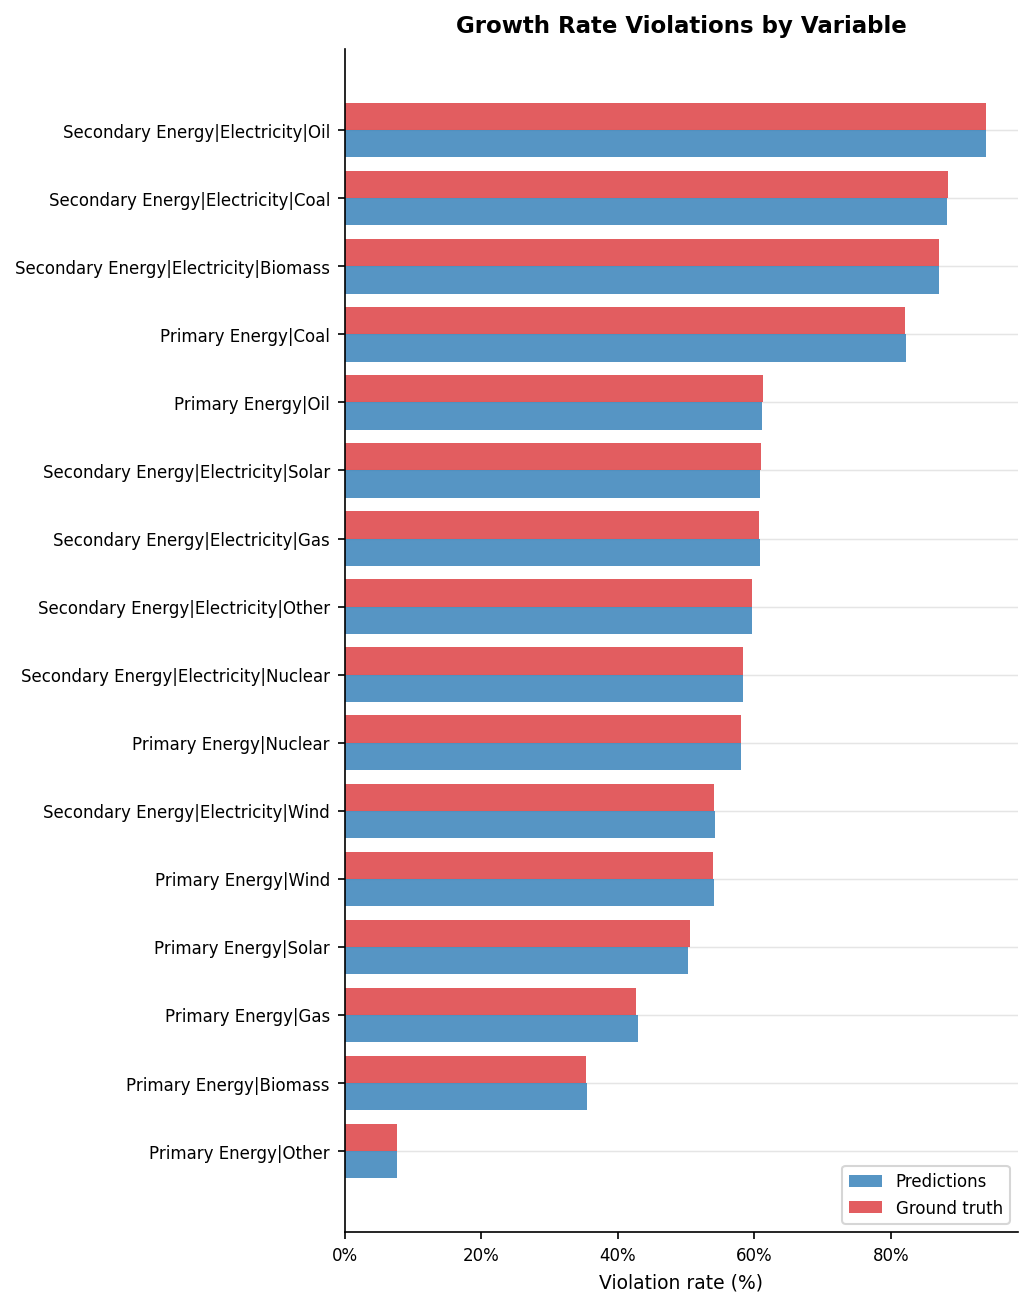
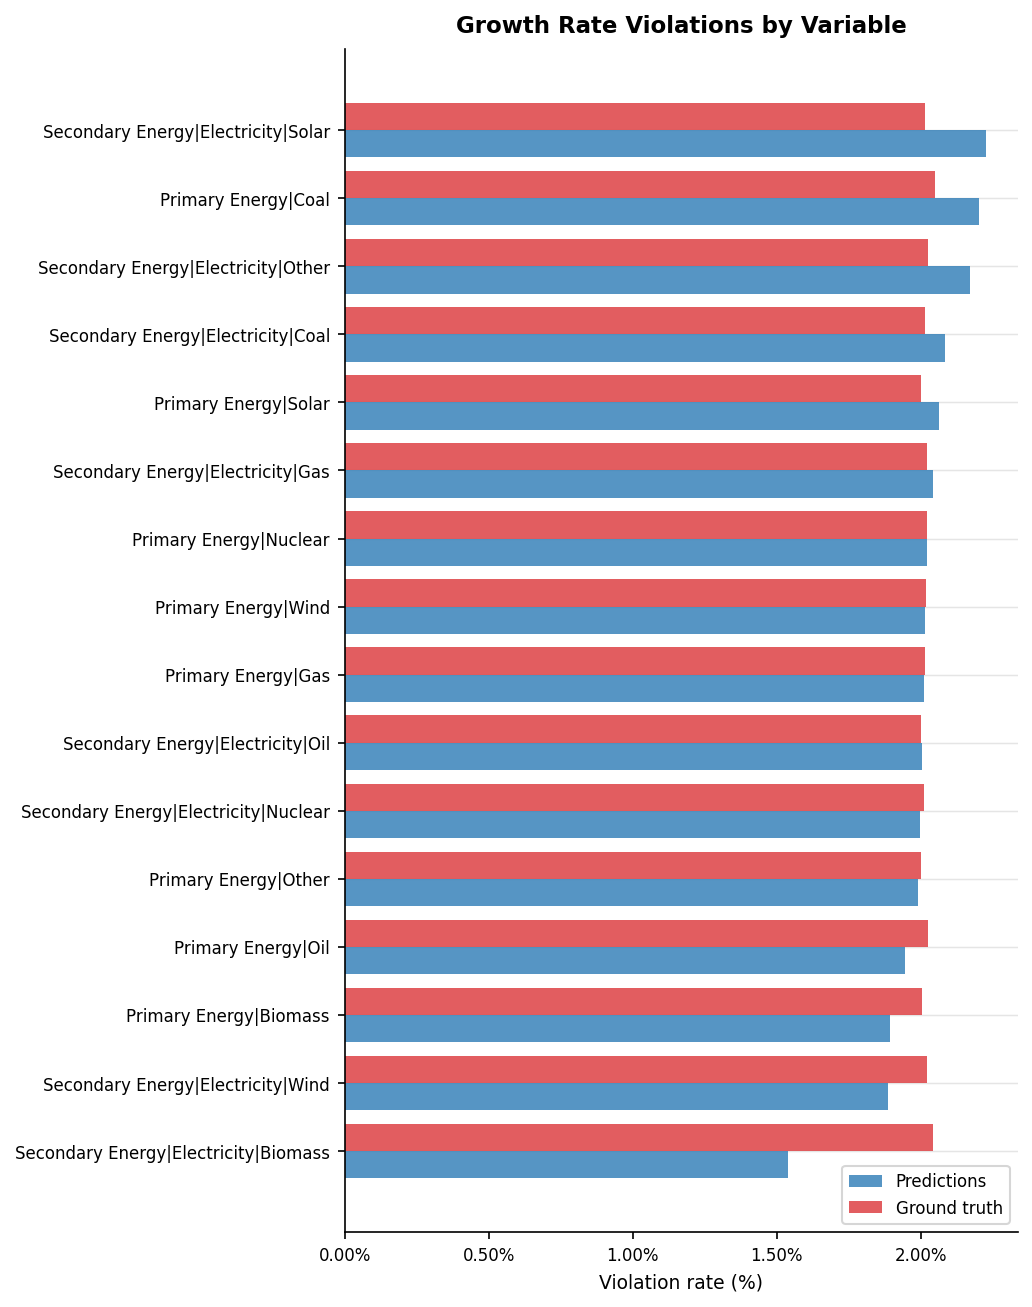
fixing gcam report

diff --git a/reports/gcamnet_01_iamc/report.md b/reports/gcamnet_01_iamc/report.md
@@ -1,7 +1,7 @@
 # Validation Report: gcamnet_01_iamc
 
 **Run ID:** `gcamnet_01_iamc`
-**Generated:** 2026-06-18 16:08
+**Generated:** 2026-06-19 09:54
 **Results:** `results/gcamnet_01_iamc/`
 
 ---
@@ -12,7 +12,7 @@
 
 | Metric | Predictions | Ground Truth |
 | --- | --- | --- |
-| Pass rate (timesteps) | 40.3% | 40.3% |
+| Pass rate (timesteps) | 98.0% | 98.0% |
 
 **3. Regional Consistency**
 
@@ -20,30 +20,9 @@ _No complete regional groupings in this dataset._
 
 **4. Physical Bounds Check**
 
-| Metric | Predictions | Ground Truth |
-| --- | --- | --- |
-| Pass rate (timesteps) | 99.7% | ⚠ run validate.py with --ground_truth |
-
-**5. Hard Historical Constraints** _(PASS = within IP range, WARN = within outer tolerance)_
-
-| Sub-check | Pass (%) | Warn (%) | Fail (%) | GT Pass (%) | GT Warn (%) | GT Fail (%) |
-| --- | --- | --- | --- | --- | --- | --- |
-| nuclear_energy_2020 | 0.0% | 0.1% | 99.9% | 0.0% | 0.1% | 99.9% |
-| solar_wind_2020 | 1.7% | 3.8% | 94.5% | 1.7% | 3.6% | 94.7% |
-
-**6. Soft Future Constraints**
-
-| Sub-check | Pass (%) | Fail (%) | GT Pass (%) | GT Fail (%) |
-| --- | --- | --- | --- | --- |
-| nuclear_electricity_2030 | 100.0% | 0.0% | 100.0% | 0.0% |
-
-**7. SCI Vetting Checks**
-
-| Sub-check | Pass (%) | Warn (%) | Fail (%) | GT Pass (%) | GT Warn (%) | GT Fail (%) |
-| --- | --- | --- | --- | --- | --- | --- |
-| hist_primary_coal | 0.0% | 0.0% | 100.0% | 0.0% | 0.0% | 100.0% |
-| hist_primary_gas | 0.0% | 0.0% | 100.0% | 0.0% | 0.0% | 100.0% |
-| hist_primary_oil | 0.0% | 0.0% | 100.0% | 0.0% | 0.0% | 100.0% |
+| Metric | Predictions |
+| --- | --- |
+| Pass rate (timesteps) | 99.7% |
 
 **8. Inter-variable Correlations**
 
@@ -83,11 +62,11 @@ _Sum check results not found. Run `validate.py` first._
 _For each predicted trajectory, checks that period-on-period growth rates
 fall within empirically-derived bounds from the ground truth data._
 
-**Total timesteps evaluated:** 307,200  
-**Violations:** 183,329 (59.68%)  
+**Total timesteps evaluated:** 126,411  
+**Violations:** 2,540 (2.01%)  
 
-**Ground truth — violation rate:** 59.65%  
-_(+0.02pp difference: predictions vs ground truth)_
+**Ground truth — violation rate:** 2.01%  
+_(-0.01pp difference: predictions vs ground truth)_
 
 ### Violation Rate by Variable
 
@@ -190,16 +169,7 @@ _Checks World-level predictions at 2020 against AR6 vetting reference values
 tolerance, FAIL = outside outer tolerance. Belongs to the **historical and
 domain knowledge comparison** validation family._
 
-| Sub-check | N | Pass (%) | Warn (%) | Fail (%) | GT Pass (%) | GT Fail (%) |
-| --- | --- | --- | --- | --- | --- | --- |
-| nuclear_energy_2020 | 1280 | 0.0000 | 0.1000 | 99.9000 | 0.0000 | 100.0000 |
-| solar_wind_2020 | 1280 | 1.7000 | 3.8000 | 94.5000 | 1.8000 | 98.2000 |
-
-
-_Skipped sub-checks (required variables absent): co2_eip_2020: ['Emissions|CO2'], ch4_2020: ['Emissions|CH4'], co2_change_2010_2020: ['Emissions|CO2'], ccs_2020: ['Carbon Sequestration|CCS'], primary_energy_2020: ['Primary Energy']_
-
-
-<p style="color:red;font-weight:bold">⚠ POSSIBLE UNIT MISMATCH: median 0.06108 is ~160x lower than expected 9.77 EJ. Check units for Primary Energy|Nuclear</p>
+_Check skipped — no results generated. Reason: no 'World' region in dataset — these are World-level checks and cannot be meaningfully evaluated on regional data._
 
 
 ---
@@ -210,12 +180,7 @@ _Checks World-level predictions at 2030–2040 against domain-knowledge
 plausibility bounds from the AR6 vetting process (Table 11). Belongs to the
 **historical and domain knowledge comparison** validation family._
 
-| Sub-check | N | Pass (%) | Fail (%) | GT Pass (%) | GT Fail (%) |
-| --- | --- | --- | --- | --- | --- |
-| nuclear_electricity_2030 | 1280 | 100.0000 | 0.0000 | 100.0000 | 0.0000 |
-
-
-_Skipped sub-checks (required variables absent): co2_not_negative_2030: ['Emissions|CO2'], ccs_2030: ['Carbon Sequestration|CCS'], ch4_2040: ['Emissions|CH4']_
+_Check skipped — no results generated. Reason: no 'World' region in dataset — these are World-level checks and cannot be meaningfully evaluated on regional data._
 
 
 ---
@@ -228,23 +193,7 @@ at four anchor years (2010–2025), and CCS feasibility at 2030, 2035, and 2040.
 Status: PASS = within medium-concern bounds, WARN = within strong-concern bounds,
 FAIL = outside strong-concern (exclusion-level) bounds._
 
-| Sub-check | N | Pass (%) | Fail (%) | GT Pass (%) | GT Fail (%) |
-| --- | --- | --- | --- | --- | --- |
-| hist_primary_coal | 5120 | 0.0000 | 100.0000 | 0.0000 | 100.0000 |
-| hist_primary_gas | 5120 | 0.0000 | 100.0000 | 0.0000 | 100.0000 |
-| hist_primary_oil | 5120 | 0.0000 | 100.0000 | 0.0000 | 100.0000 |
-
-
-_Not run: hist_co2_eip (['Emissions|CO2']), nearterm_ccs (['Carbon Sequestration|CCS']), longterm_ccs_2035 (['Carbon Sequestration|CCS']), longterm_ccs_2040 (['Carbon Sequestration|CCS'])_
-
-
-<p style="color:red;font-weight:bold">⚠ POSSIBLE UNIT MISMATCH: median 0.1534 is ~1011x lower than expected 155 EJ. Check units for Primary Energy|Coal</p>
-
-
-<p style="color:red;font-weight:bold">⚠ POSSIBLE UNIT MISMATCH: median 0.7803 is ~231x lower than expected 180 EJ. Check units for Primary Energy|Oil</p>
-
-
-<p style="color:red;font-weight:bold">⚠ POSSIBLE UNIT MISMATCH: median 0.9337 is ~139x lower than expected 130 EJ. Check units for Primary Energy|Gas</p>
+_Check skipped — no results generated. Reason: no 'World' region in dataset — these are World-level checks and cannot be meaningfully evaluated on regional data._
 
 
 ---
